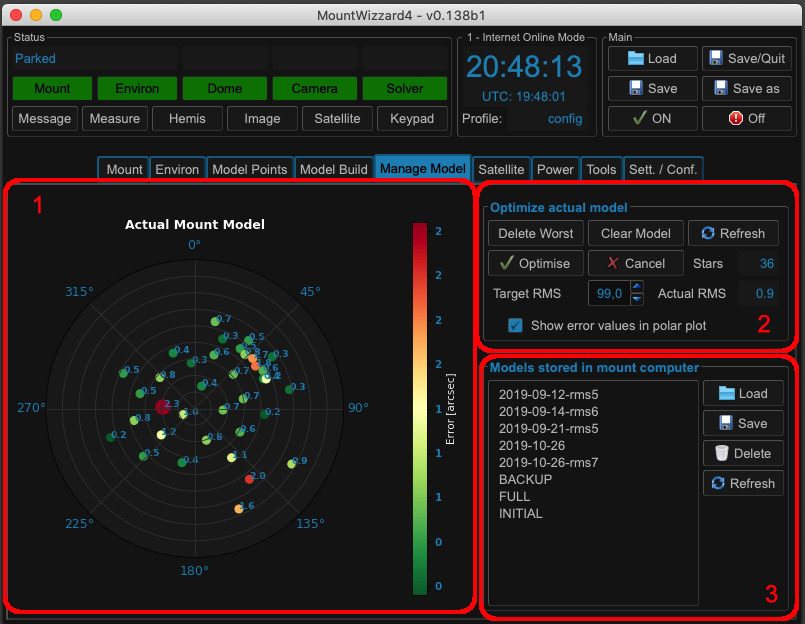
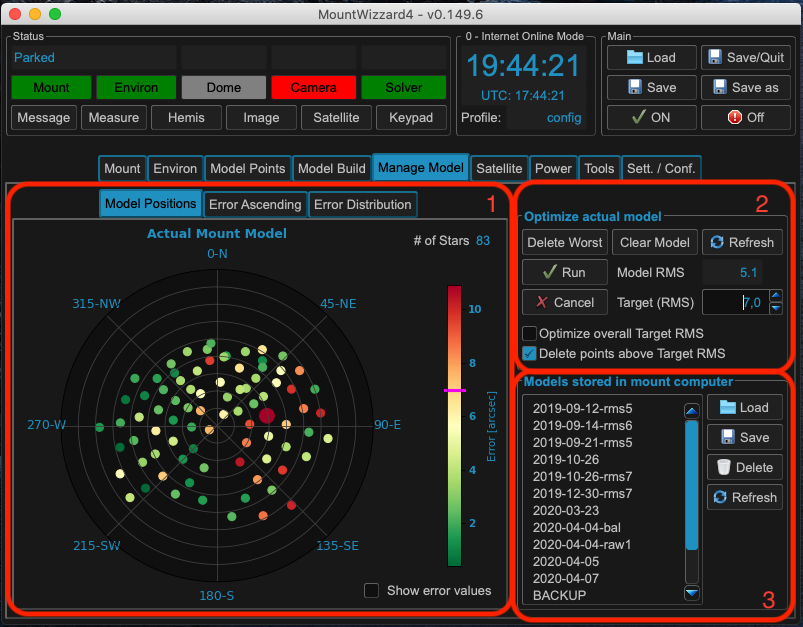
adding doc

diff --git a/setup.py b/setup.py
@@ -21,7 +21,7 @@ from pathlib import Path
 
 setup(
     name='mountwizzard4',
-    version='0.149.6',
+    version='0.149.7',
     packages=[
         'mw4',
         'mw4.astrometry',

diff --git a/docs/source/explain_manage_model.rst b/docs/source/explain_manage_model.rst
@@ -1,0 +1,42 @@
+Managing Mount Models
+=====================
+Managing your models is a central task especially if you image in a mobile environment. MW4
+supports this in the Manage Model Tab in the main window. All functions there are related to
+the actual mount model or the models stored in the mount. Three graphs are available for
+checking the model: "Model Positions", "Error ascending" and "Error Distribution".
+
+.. note::   All values which are show in these graphs were calculated by the mount computer
+            itself and just read out and displayed by MW4. As the 10micron algorithm of the
+            model optimizer is not know. The given hints are observations.
+
+The Model Positions graph shows in a polar plot how the model point were distributed over
+the hemisphere and how large the errors of each point is in a color scheme. If necessary you
+could check "Show error values" and numerical values will label each point.
+
+.. image:: _static/explain_manage_model_1.png
+    :align: center
+    :scale: 71%
+
+In the give example you see the western point are in general better than the eastern ones,
+so in the setup there might be differences in setup depending on the pier side.
+
+The Error Ascending graph show all model points sorted by ascending error values. You might
+see some outlayers which differ a lot from other ones or recognize an elbow type of curve
+which also might lead to some issues with you setup.
+
+.. image:: _static/explain_manage_model_2.png
+    :align: center
+    :scale: 71%
+
+The Error Distribution graph shows in a polar plot how the error values (higher values on
+outer rings) and the polar angle of the error value.
+
+.. image:: _static/explain_manage_model_3.png
+    :align: center
+    :scale: 71%
+
+In all graphs you will see the pink lines which show the value of the Target (RMS) setting
+in the "Optimize actual model" box. This helps in adjusting a cut-off value for automatic
+model point removal.
+
+

diff --git a/docs/source/explain_main.rst b/docs/source/explain_main.rst
@@ -260,6 +260,9 @@ make sense to keep every model. If you store models to disk, please refer to bui
 model: MW4 stored any build model to disk in parallel. So you can access the data even
 without having the model stored in the mount computer.
 
+How to use the manage model is described in :ref:`Managing Mount Models`.
+
+
 Satellite Tab
 -------------
 The mount supports satellite tracking. There is a database in the mount (which can be

diff --git a/docs/source/index.rst b/docs/source/index.rst
@@ -12,6 +12,7 @@ MountWizzard4 is still beta!
     install_platesolvers
     install_rpi3
     explain_main
+    explain_manage_model
     explain_setting
     explain_windows
     config_mw4
